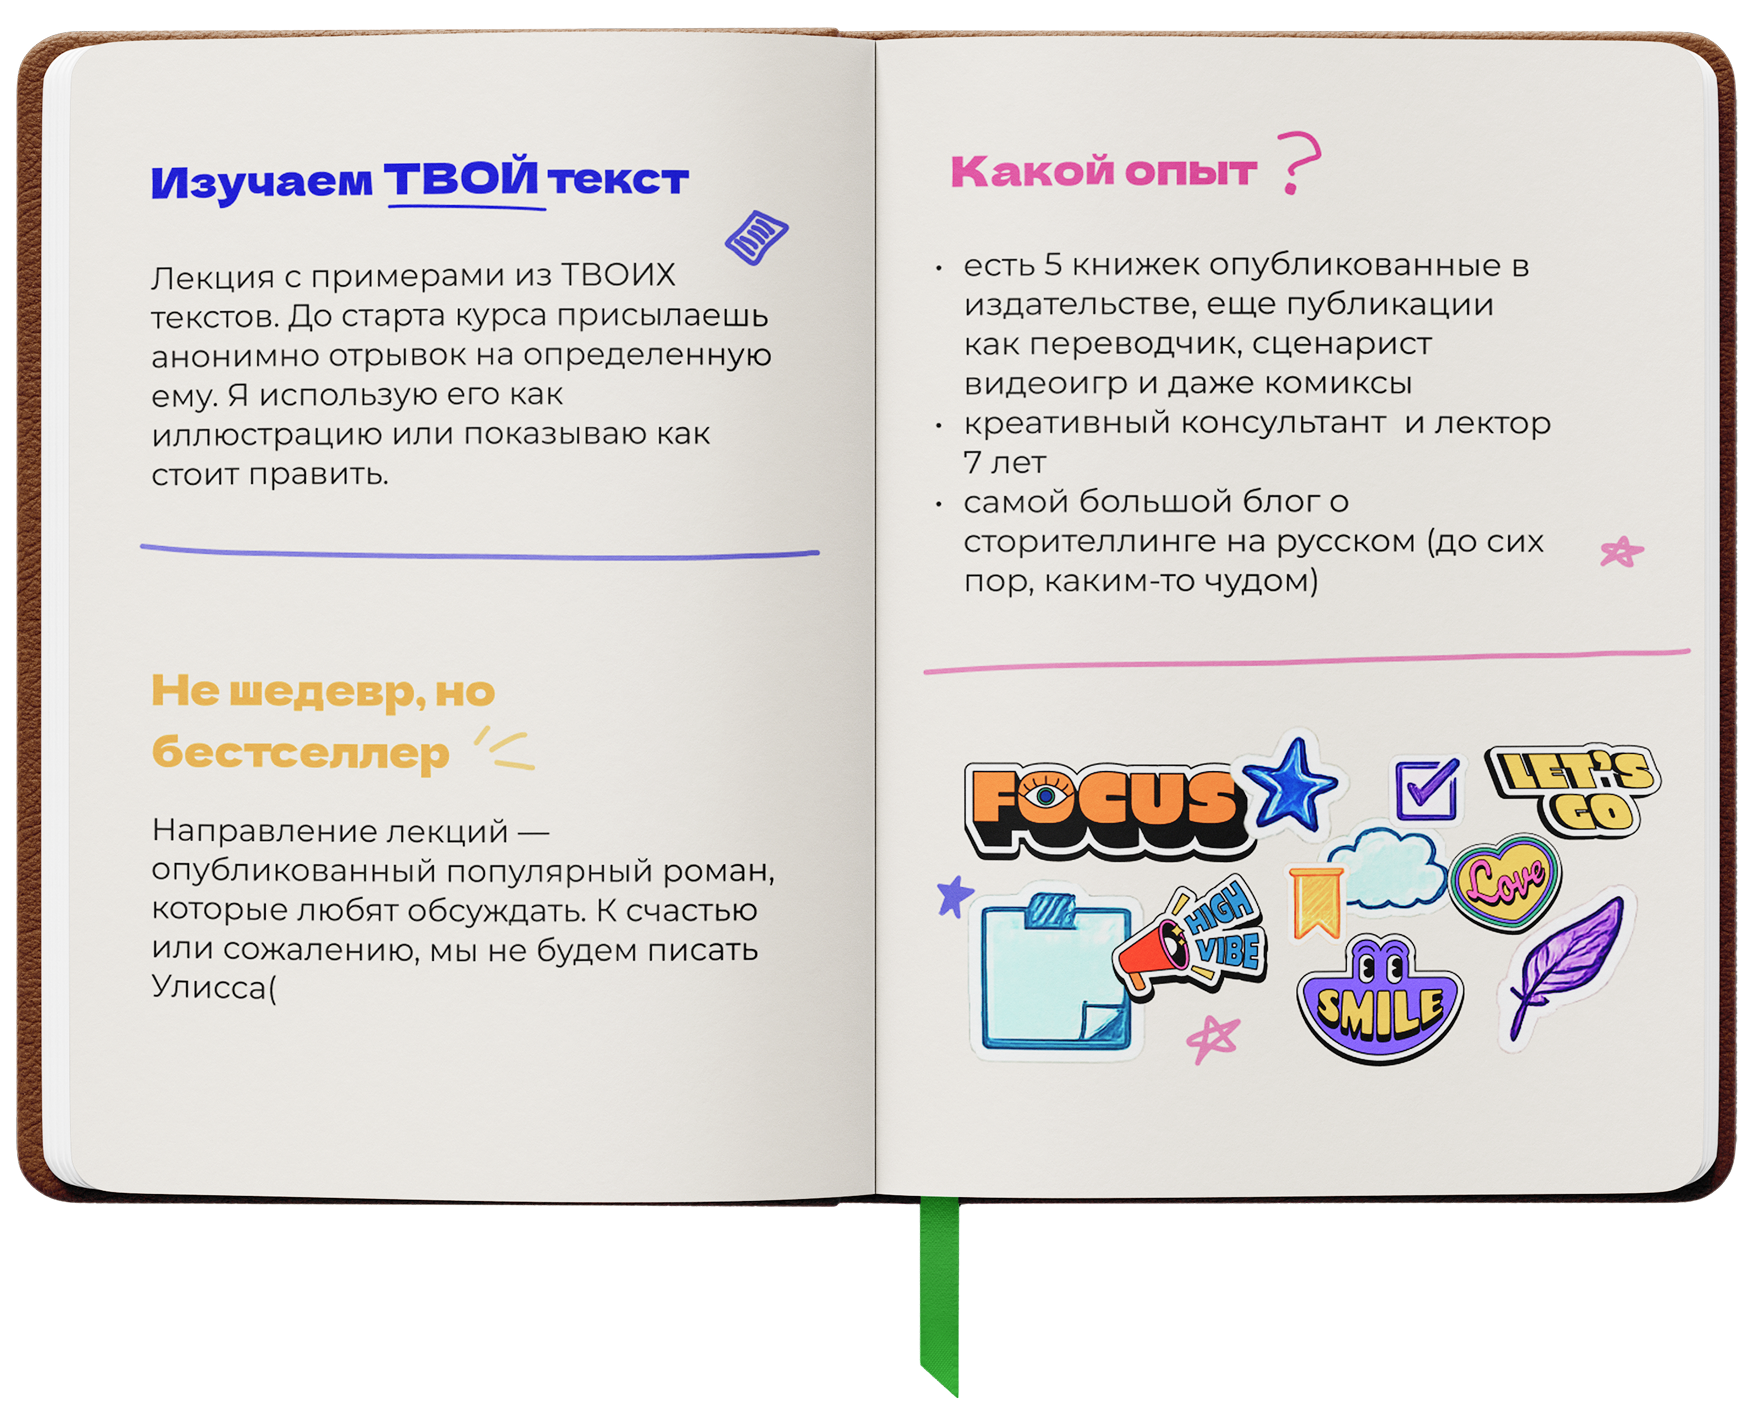
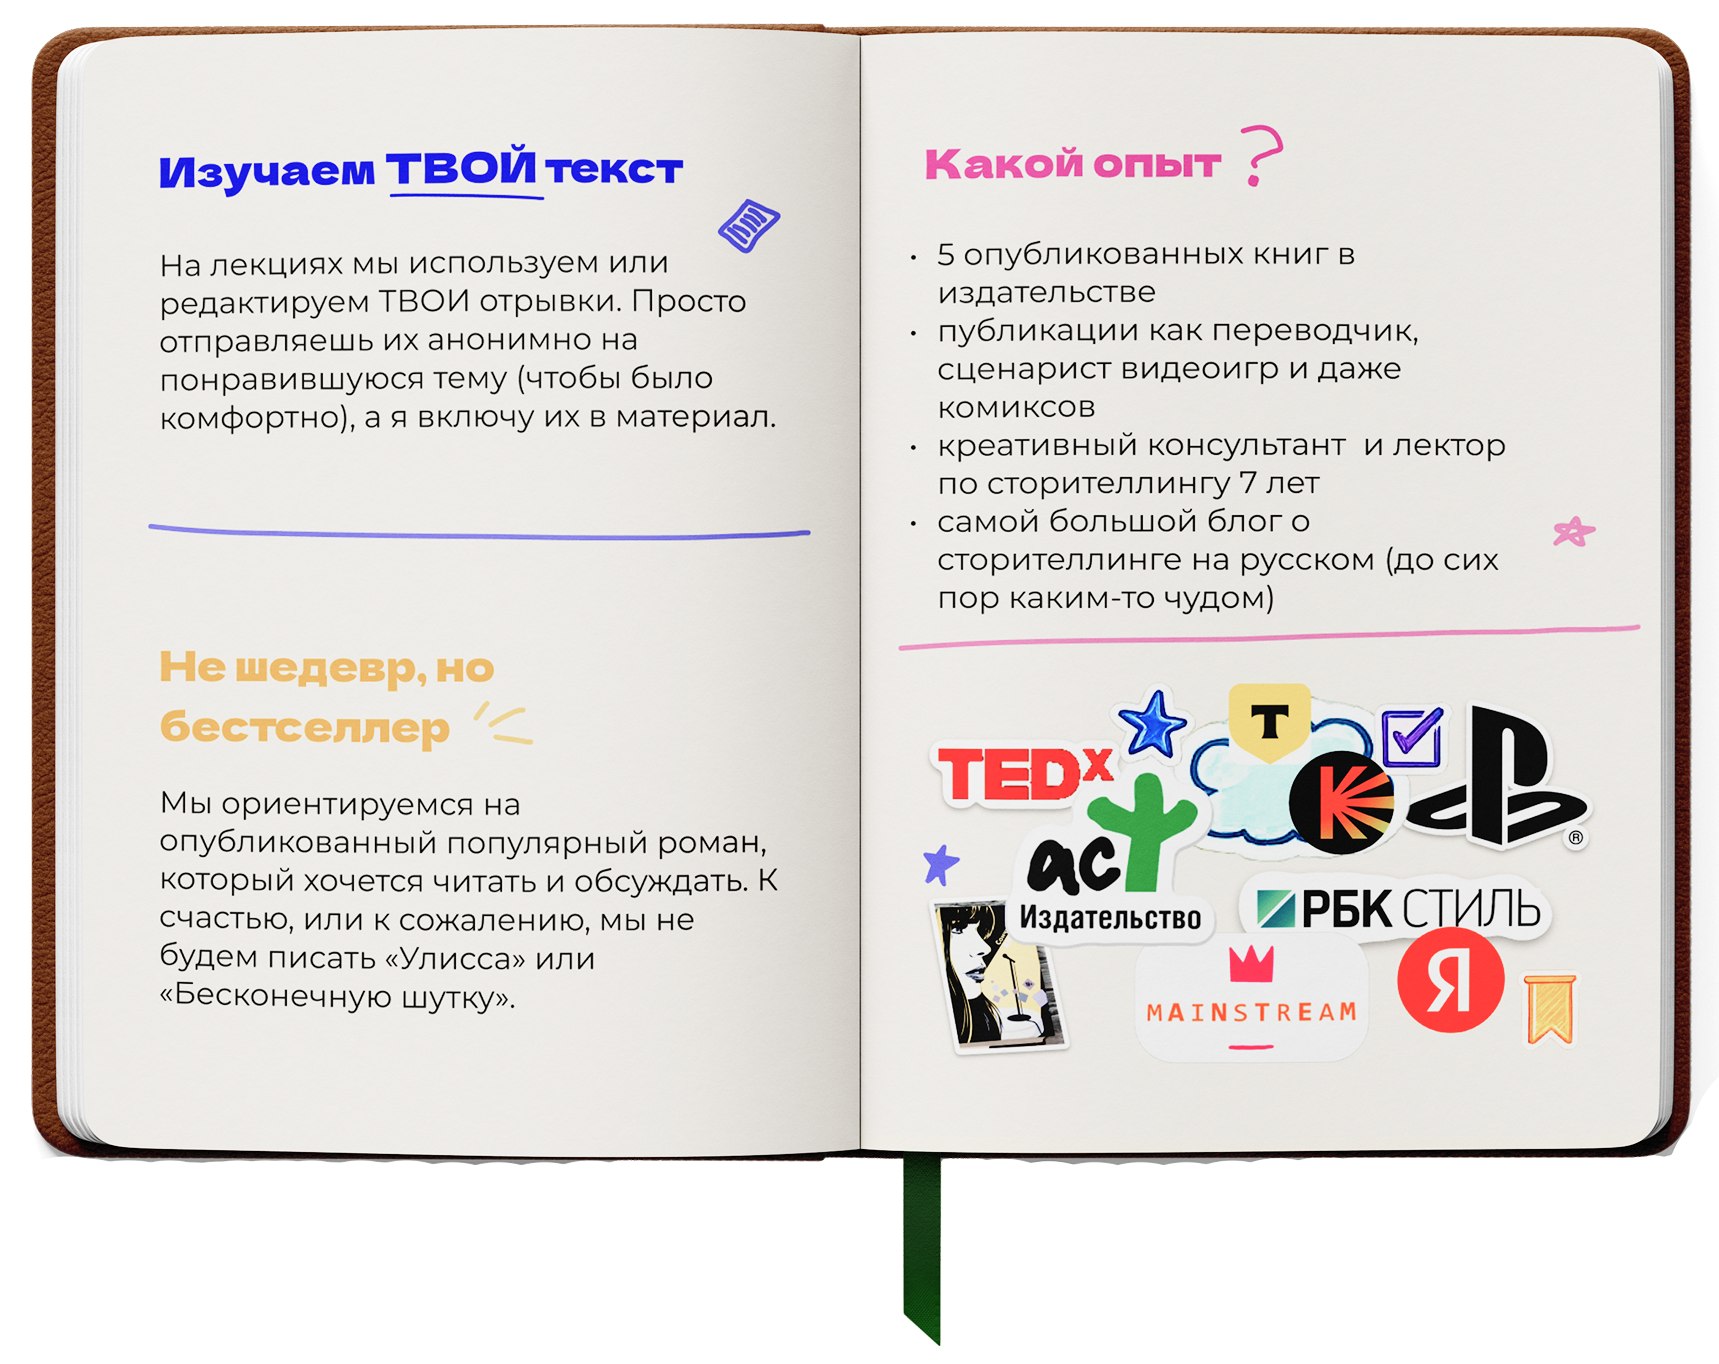
fixed about, plan section and replaced book image

diff --git a/src/styles/courses.css b/src/styles/courses.css
@@ -199,19 +199,33 @@
     background: var(--c2-cream);
 }
 
-.c2-about-deco {
-    position: absolute;
-    pointer-events: none;
-    opacity: 0.6;
-    z-index: 0;
+.c2-about-card {
+    position: relative;
+    overflow: hidden;
 }
 
-.c2-about-deco-1 { top: 40px; left: 20px; width: 140px; height: 140px;
-    background: url('/courses/about-decoration1.svg') center/contain no-repeat; }
-.c2-about-deco-2 { top: 200px; left: 80px; width: 120px; height: 120px;
-    background: url('/courses/about-decoration2.svg') center/contain no-repeat; }
-.c2-about-deco-3 { top: 230px; right: 60px; width: 160px; height: 160px;
-    background: url('/courses/about-decoration3.svg') center/contain no-repeat; }
+.c2-about-card-deco {
+    position: absolute;
+    pointer-events: none;
+    opacity: 0.35;
+    z-index: 0;
+    width: 160px;
+    height: auto;
+    bottom: -20px;
+    right: -20px;
+}
+
+.c2-about-card-wide .c2-about-card-deco {
+    width: 180px;
+    bottom: -30px;
+    right: 10%;
+}
+
+.c2-about-card > h3,
+.c2-about-card > p {
+    position: relative;
+    z-index: 1;
+}
 
 .c2-about-grid {
     position: relative;
@@ -330,10 +344,12 @@
 .c2-calendar-grid {
     display: grid;
     grid-template-columns: repeat(7, 1fr);
-    gap: 6px;
-    background: transparent;
-    padding: 6px;
-    border-radius: 16px;
+    gap: 0;
+    background: #FFFFFF;
+    padding: 0;
+    border-radius: 18px;
+    overflow: hidden;
+    border: 1px solid #E5C9D5;
 }
 
 .c2-calendar-dow,
@@ -343,8 +359,12 @@
     position: relative;
     text-align: left;
     background: #FFFFFF;
-    border-radius: 10px;
+    border-right: 1px solid #E5C9D5;
+    border-bottom: 1px solid #E5C9D5;
 }
+
+.c2-calendar-grid > :nth-child(7n) { border-right: none; }
+.c2-calendar-grid > .c2-calendar-cell:nth-last-child(-n+7) { border-bottom: none; }
 
 .c2-calendar-cell.c-event {
     background: var(--c2-event-bg);
@@ -613,53 +633,60 @@
 }
 
 .c2-plan-grid {
+    max-width: 900px;
+    margin: 0 auto;
+}
+
+.c2-plan-headers-row {
     display: grid;
     grid-template-columns: 1.2fr 1fr 1.1fr;
     column-gap: 40px;
     max-width: 900px;
     margin: 0 auto;
+    border-bottom: 2px solid #34260E;
 }
 
 .c2-plan-header {
-    font-family: 'Montserrat', sans-serif;
-    font-weight: 700;
-    font-size: 16px;
-    padding: 12px 4px;
-    margin-bottom: 12px;
-    border-bottom: 2px dotted #999;
+    font-family: 'Dela Gothic One', 'Dela Gothic One Local', sans-serif;
+    font-weight: 400;
+    font-size: 18px;
     text-align: center;
-}
-
-.c2-plan-header.ph-purple,
-.c2-plan-header.ph-orange,
-.c2-plan-header.ph-green {
     color: var(--c2-plan-header);
-    border-color: var(--c2-plan-header);
 }
 
 .c2-plan-row {
-    display: contents;
+    display: grid;
+    grid-template-columns: 1.2fr 1fr 1.1fr;
+    column-gap: 40px;
+    max-width: 900px;
+    border-bottom: 2px solid #34260E;
 }
 
 .c2-plan-cell {
-    padding: 16px 6px 24px;
-    border-bottom: 1px solid #d8d2c2;
+    padding: 12px 6px 22px;
     font-family: 'Montserrat', sans-serif;
     font-size: 13px;
     line-height: 1.5;
+    margin-left: 12px;
     color: #2a2a2a;
+    display: flex;
+    flex-direction: column;
+    justify-content: center;
+    align-items: left;
 }
 
 .c2-plan-cell-title {
     display: flex;
-    gap: 8px;
-    align-items: baseline;
+    flex-direction: column;
+    align-items: start;
+    gap: 0;
 }
 
 .c2-plan-cell-num {
     color: var(--c2-pink-heading);
     font-weight: 700;
     font-size: 14px;
+    margin-bottom: 4px;
 }
 
 .c2-plan-cell-name {
@@ -669,13 +696,14 @@
 }
 
 .c2-plan-cell-body {
-    margin-top: 6px;
+    margin-top: 8px;
     color: #2a2a2a;
+    text-align: left;
 }
 
 .c2-plan-cell-center {
     color: #4a4a4a;
-    text-align: left;
+    text-align: center;
     font-size: 13px;
 }
 
@@ -684,6 +712,8 @@
     padding-left: 18px;
     margin: 0;
     font-weight: 700;
+    text-align: left;
+    display: inline-block;
 }
 
 .c2-plan-cell-right li {

diff --git a/src/pages/Courses.tsx b/src/pages/Courses.tsx
@@ -221,7 +221,6 @@ const Courses = () => {
 
             {/* 1. HEADER */}
             <header className="c2-header">
-                <div className="c2-header-bg-loops" />
                 <div className="c2-title-cloud">
                     <h1>WRITER<br />SUMMER</h1>
                     <span className="c2-subtitle">прожить лето дважды</span>
@@ -242,14 +241,11 @@ const Courses = () => {
 
             {/* 2. ABOUT */}
             <section className="c2-about">
-                <div className="c2-about-deco c2-about-deco-1" aria-hidden="true" />
-                <div className="c2-about-deco c2-about-deco-2" aria-hidden="true" />
-                <div className="c2-about-deco c2-about-deco-3" aria-hidden="true" />
-
                 <div className="c2-about-grid">
                     <div className="c2-about-card c2-about-card-wide c2-about-pink">
                         <h3>1 день = 1 часть писательского процесса.</h3>
                         <p>От заявки в издательство до нарративного профиля.</p>
+                        <img className="c2-about-card-deco" src="/courses/about-decoration1.svg" alt="" aria-hidden="true" />
                     </div>
                     <div className="c2-about-card c2-about-orange">
                         <h3>7 тем = 7 гайдов</h3>
@@ -257,6 +253,7 @@ const Courses = () => {
                             заполняем <strong>личные гайды</strong> к твоей рукописи.
                             они в разы облегчат процесс и повысят шанс не забросить книгу
                         </p>
+                        <img className="c2-about-card-deco" src="/courses/about-decoration2.svg" alt="" aria-hidden="true" />
                     </div>
                     <div className="c2-about-card c2-about-purple">
                         <h3>правим отрывки</h3>
@@ -264,6 +261,7 @@ const Courses = () => {
                             теорию мы применяем на ключевых отрывках <strong>из твоего текста</strong>.
                             важные ссоры, знакомство с персонажами, метафоры и тд
                         </p>
+                        <img className="c2-about-card-deco" src="/courses/about-decoration3.svg" alt="" aria-hidden="true" />
                     </div>
                 </div>
             </section>
@@ -411,11 +409,13 @@ const Courses = () => {
                     <h2>ПЛАН ИНТЕНСИВА</h2>
                 </div>
 
-                <div className="c2-plan-grid">
-                    <div className="c2-plan-header ph-purple">Что изучаем?</div>
-                    <div className="c2-plan-header ph-orange">Что редактируем?</div>
-                    <div className="c2-plan-header ph-green">Какой гайд заполняем?</div>
+                <div className="c2-plan-headers-row">
+                    <div className="c2-plan-header">Что изучаем?</div>
+                    <div className="c2-plan-header">Что редактируем?</div>
+                    <div className="c2-plan-header">Какой гайд заполняем?</div>
+                </div>
 
+                <div className="c2-plan-grid">
                     {[
                         {
                             n: 1, name: "Идея, заявка, конфликт",